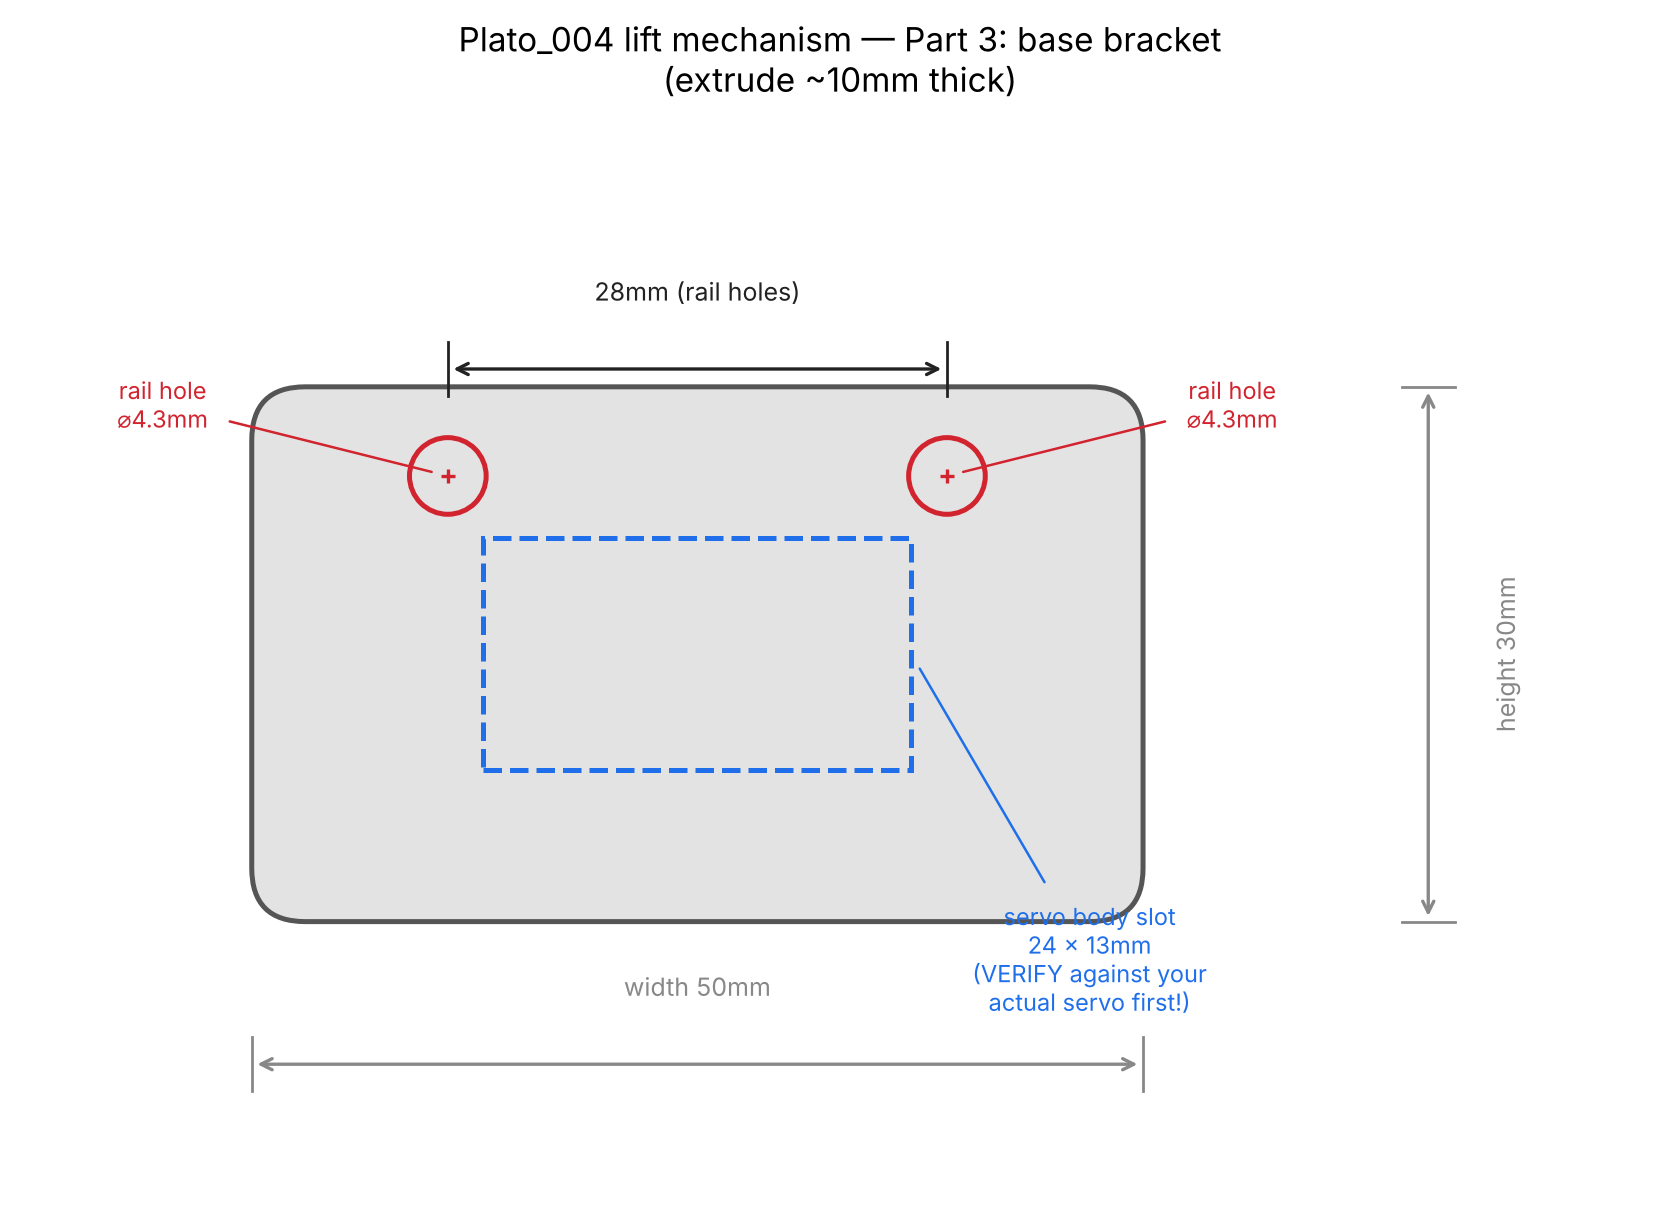
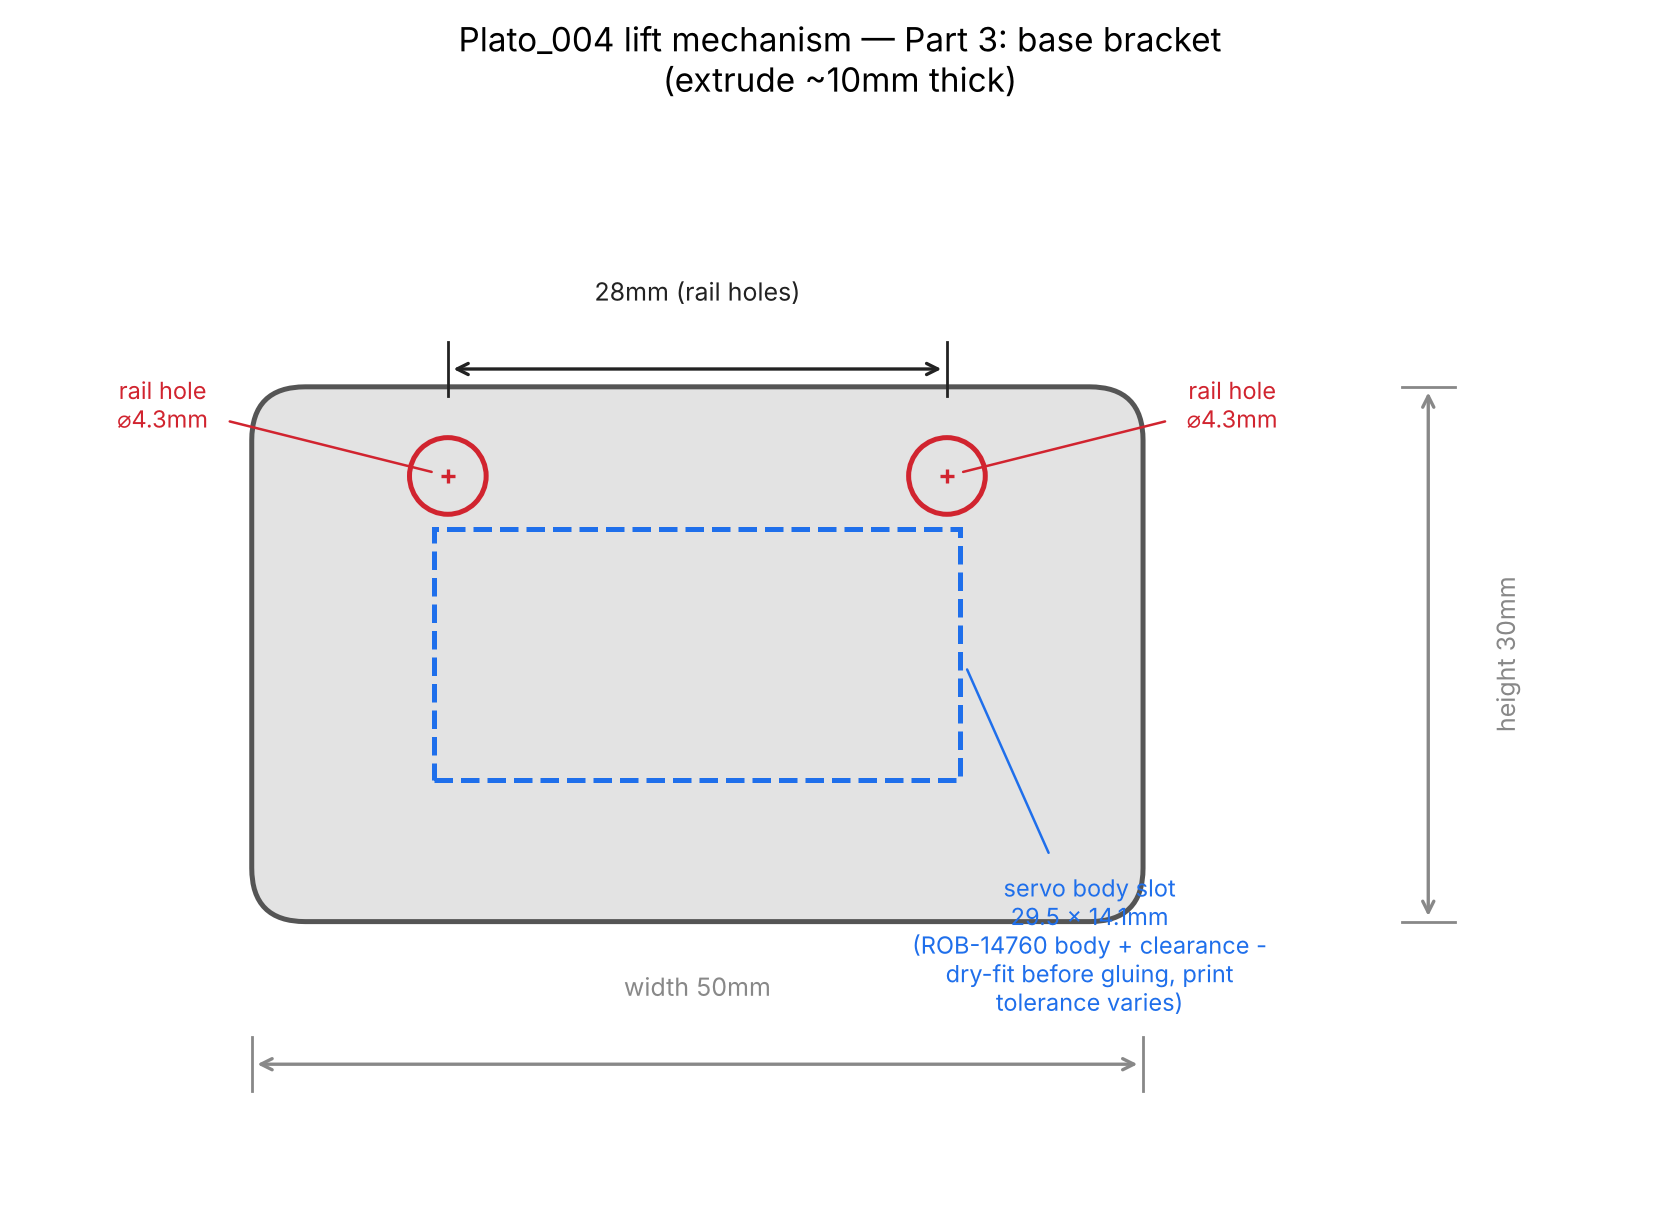
Fix base bracket servo slot size to match ROB-14760's real dimensions
The DXF's placeholder slot (24x13mm) was narrower than the servo's
actual body (28.8x13.8mm per SparkFun's listing) - widened to
29.5x14.1mm (body + clearance). Added a diagram showing how the servo
actually drops into the slot (shaft-up orientation, wire routing, glue
points) and expanded the mounting build step with dry-fit guidance
since 3D print tolerance varies by printer.

Claude-Session: https://claude.ai/code/session_016wn8mYbF3BQUaSMdWgE2fd

diff --git a/firmware/Plato_004_fsr_led_buzzer_vibration_lift/README.md b/firmware/Plato_004_fsr_led_buzzer_vibration_lift/README.md
@@ -124,7 +124,7 @@ glance than opening Fusion 360):
 
 ![Slider block dimensions: 36x20mm body, two ⌀4.3mm rail holes 28mm apart, a ⌀3.2mm connecting-rod pivot hole, and two ⌀3.2mm plate mounting holes 20mm apart](slider_block_diagram.png)
 
-![Base bracket dimensions: 50x30mm body, two ⌀4.3mm rail mounting holes 28mm apart, and a 24x13mm servo body slot (verify against your actual servo before cutting)](base_bracket_diagram.png)
+![Base bracket dimensions: 50x30mm body, two ⌀4.3mm rail mounting holes 28mm apart, and a 29.5x14.1mm servo body slot (ROB-14760 body plus clearance - dry-fit before gluing since print tolerance varies)](base_bracket_diagram.png)
 
 **Parts/materials beyond what's already in the parts list:**
 - 2× smooth guide rods, ~4mm diameter (steel/brass rod is much smoother
@@ -216,9 +216,23 @@ glance than opening Fusion 360):
    If it still binds instead of swinging freely, the retaining nut is too
    tight — back it off a fraction of a turn at a time until the rod
    swings under its own weight.
-7. **Mount the servo body** into the base bracket's servo slot (hot glue
-   or double-sided tape for a prototype — the DXF's slot dimensions are
-   generic, **measure your actual servo and adjust before cutting**).
+7. **Mount the servo body** into the base bracket's servo slot. The
+   slot's default size (29.5 x 14.1mm) is the `ROB-14760`'s own body
+   (28.8 x 13.8mm per SparkFun's listing) plus a small clearance margin —
+   print tolerance varies by printer, so **dry-fit it first with no
+   glue**: it should slide in snugly by hand, not need force. Too tight,
+   ream the slot slightly; too loose, shim one side with a strip of tape
+   before gluing.
+
+   ![Diagram showing how the servo body drops into the base bracket's slot: output shaft/horn facing up toward the slider and connecting rod, the 3-wire cable exiting the bottom clear of the moving slider, and hot glue or double-sided tape along the body-to-slot-wall contact](servo_mount_diagram.png)
+
+   Orientation matters: drop it in with the **output shaft (horn) side
+   facing up**, toward the slider/connecting rod, and the **3-wire cable
+   exiting the bottom**, clear of where the slider moves. Once positioned
+   correctly, run a bead of hot glue (or a strip of double-sided foam
+   tape) along the body-to-slot-wall contact on at least two sides —
+   enough to hold it still under the linkage's load, not meant as a
+   permanent structural bond (you may want to swap servos later).
 8. **Test before attaching the plate.** Upload the firmware and run the
    mechanism empty (no plate) through several full cycles first, watching
    for binding or the rod popping off a pivot — much easier to fix without
